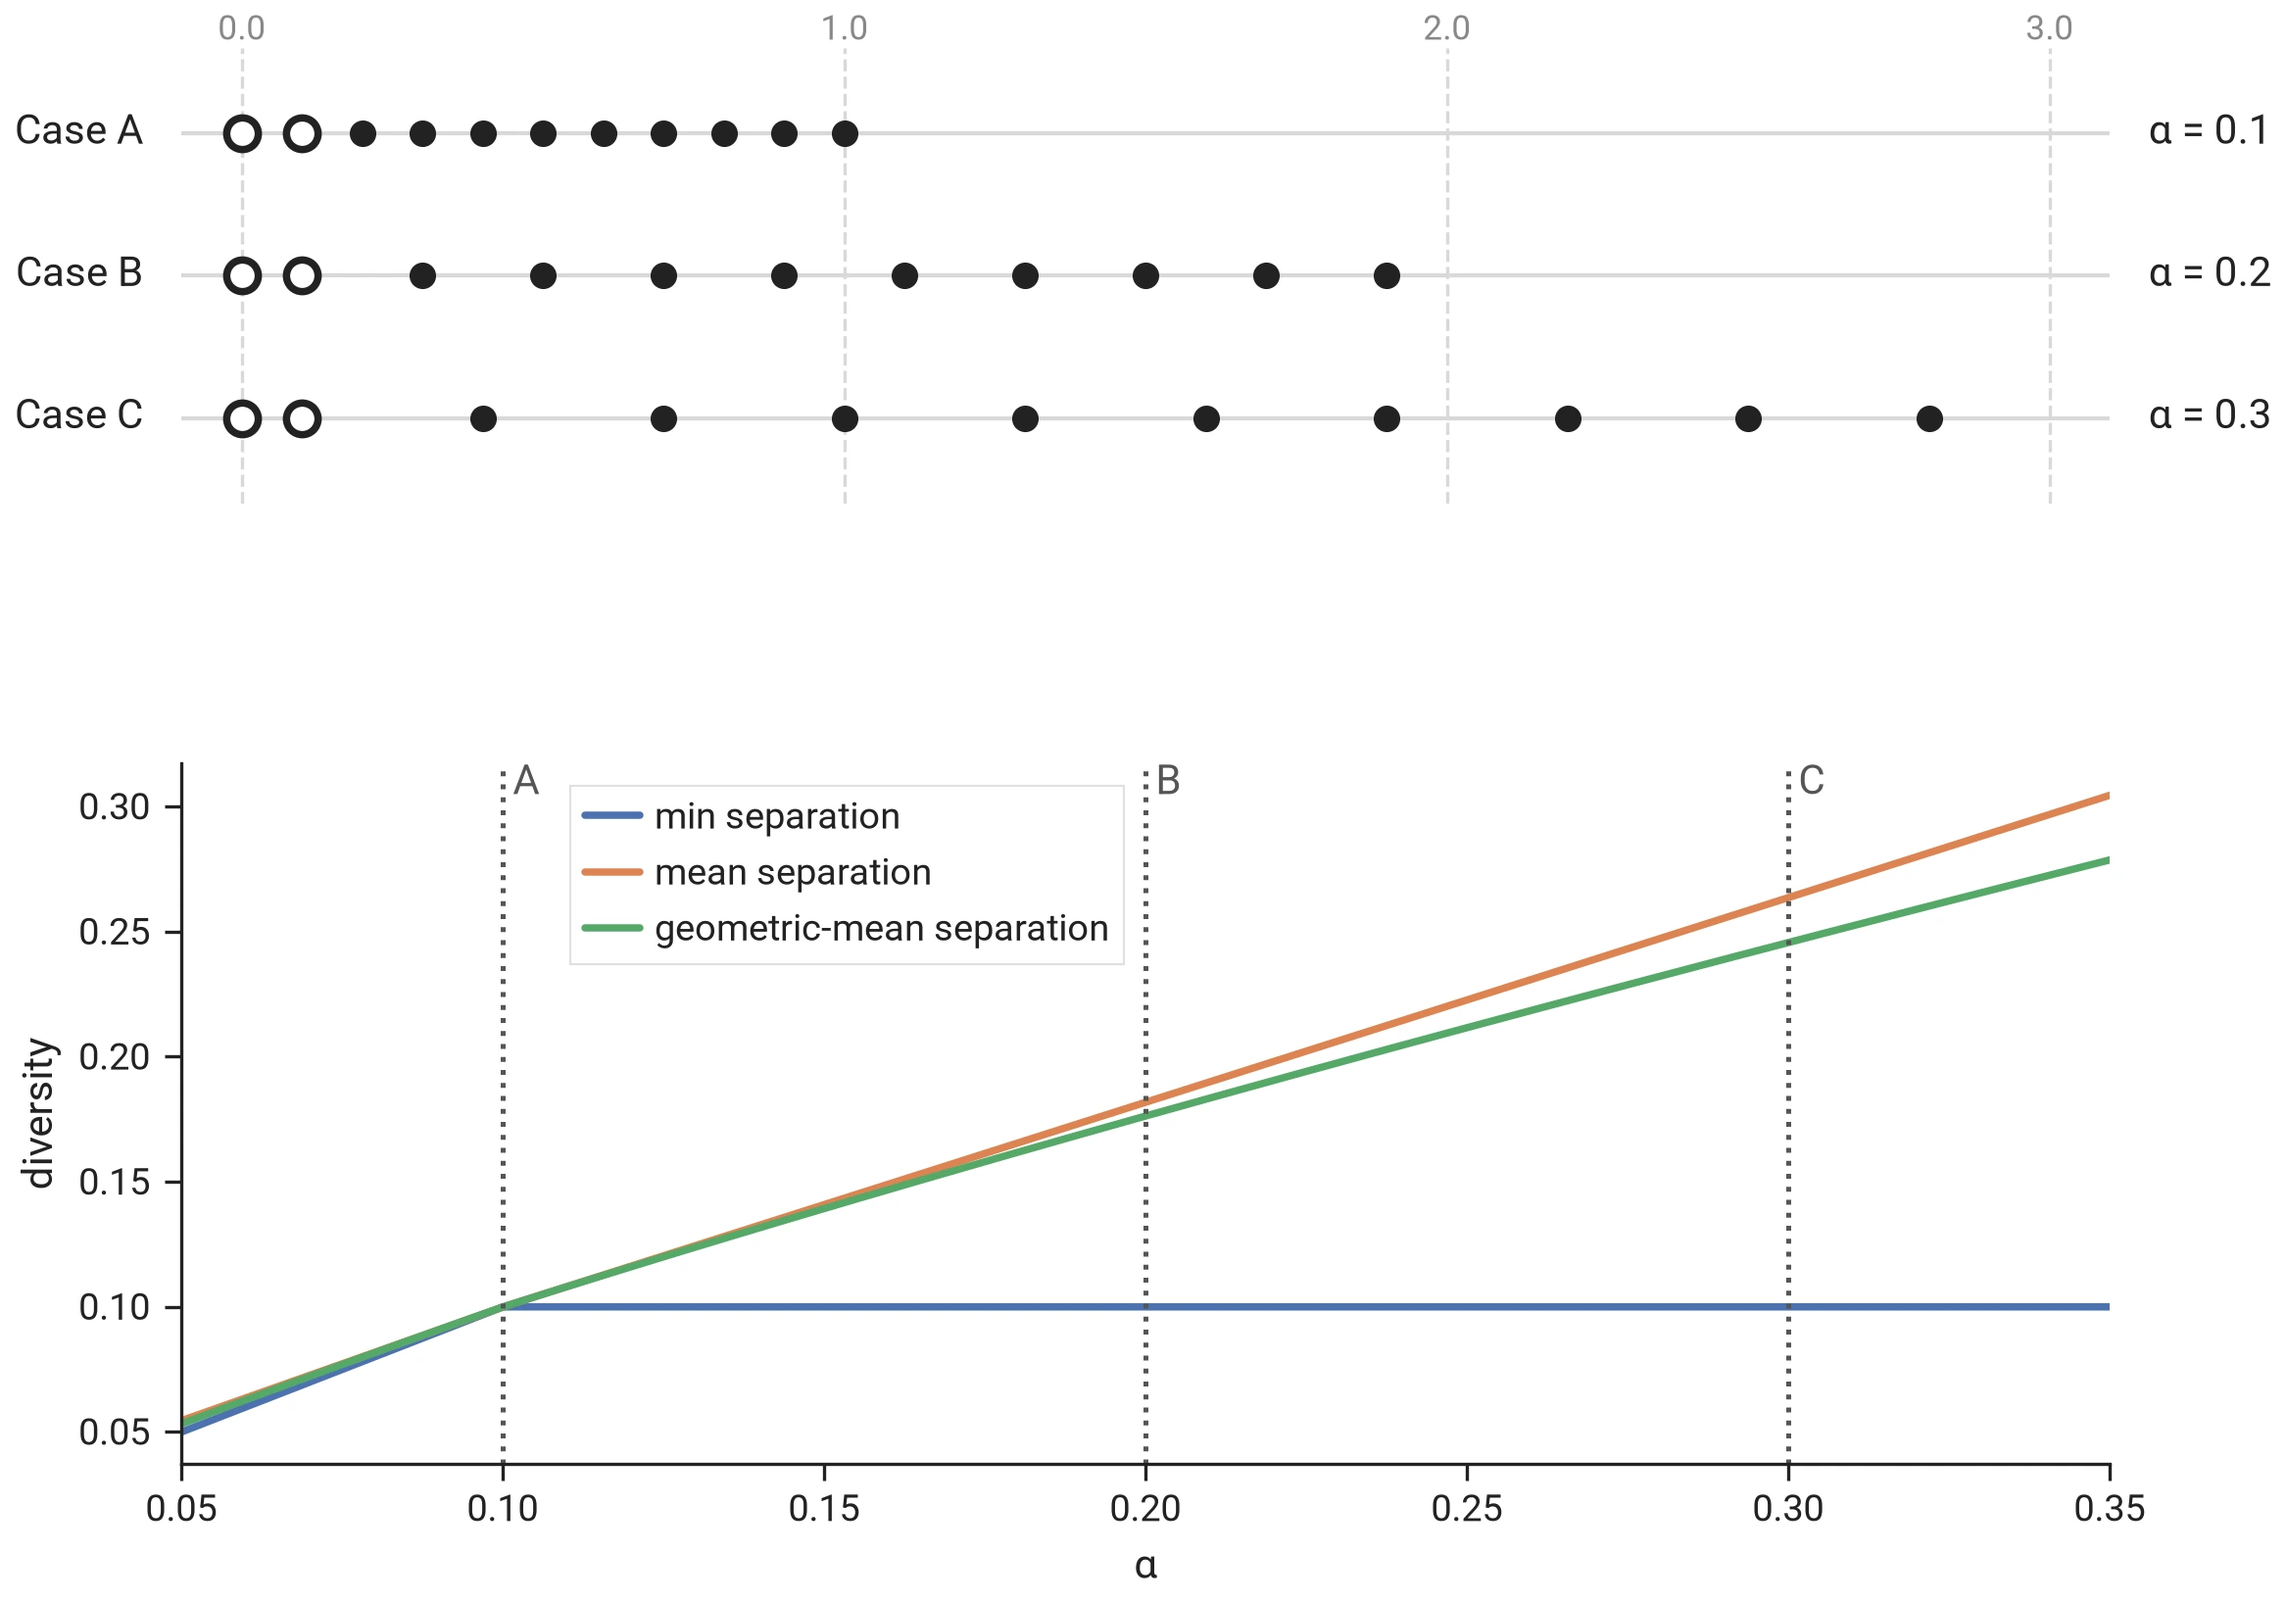
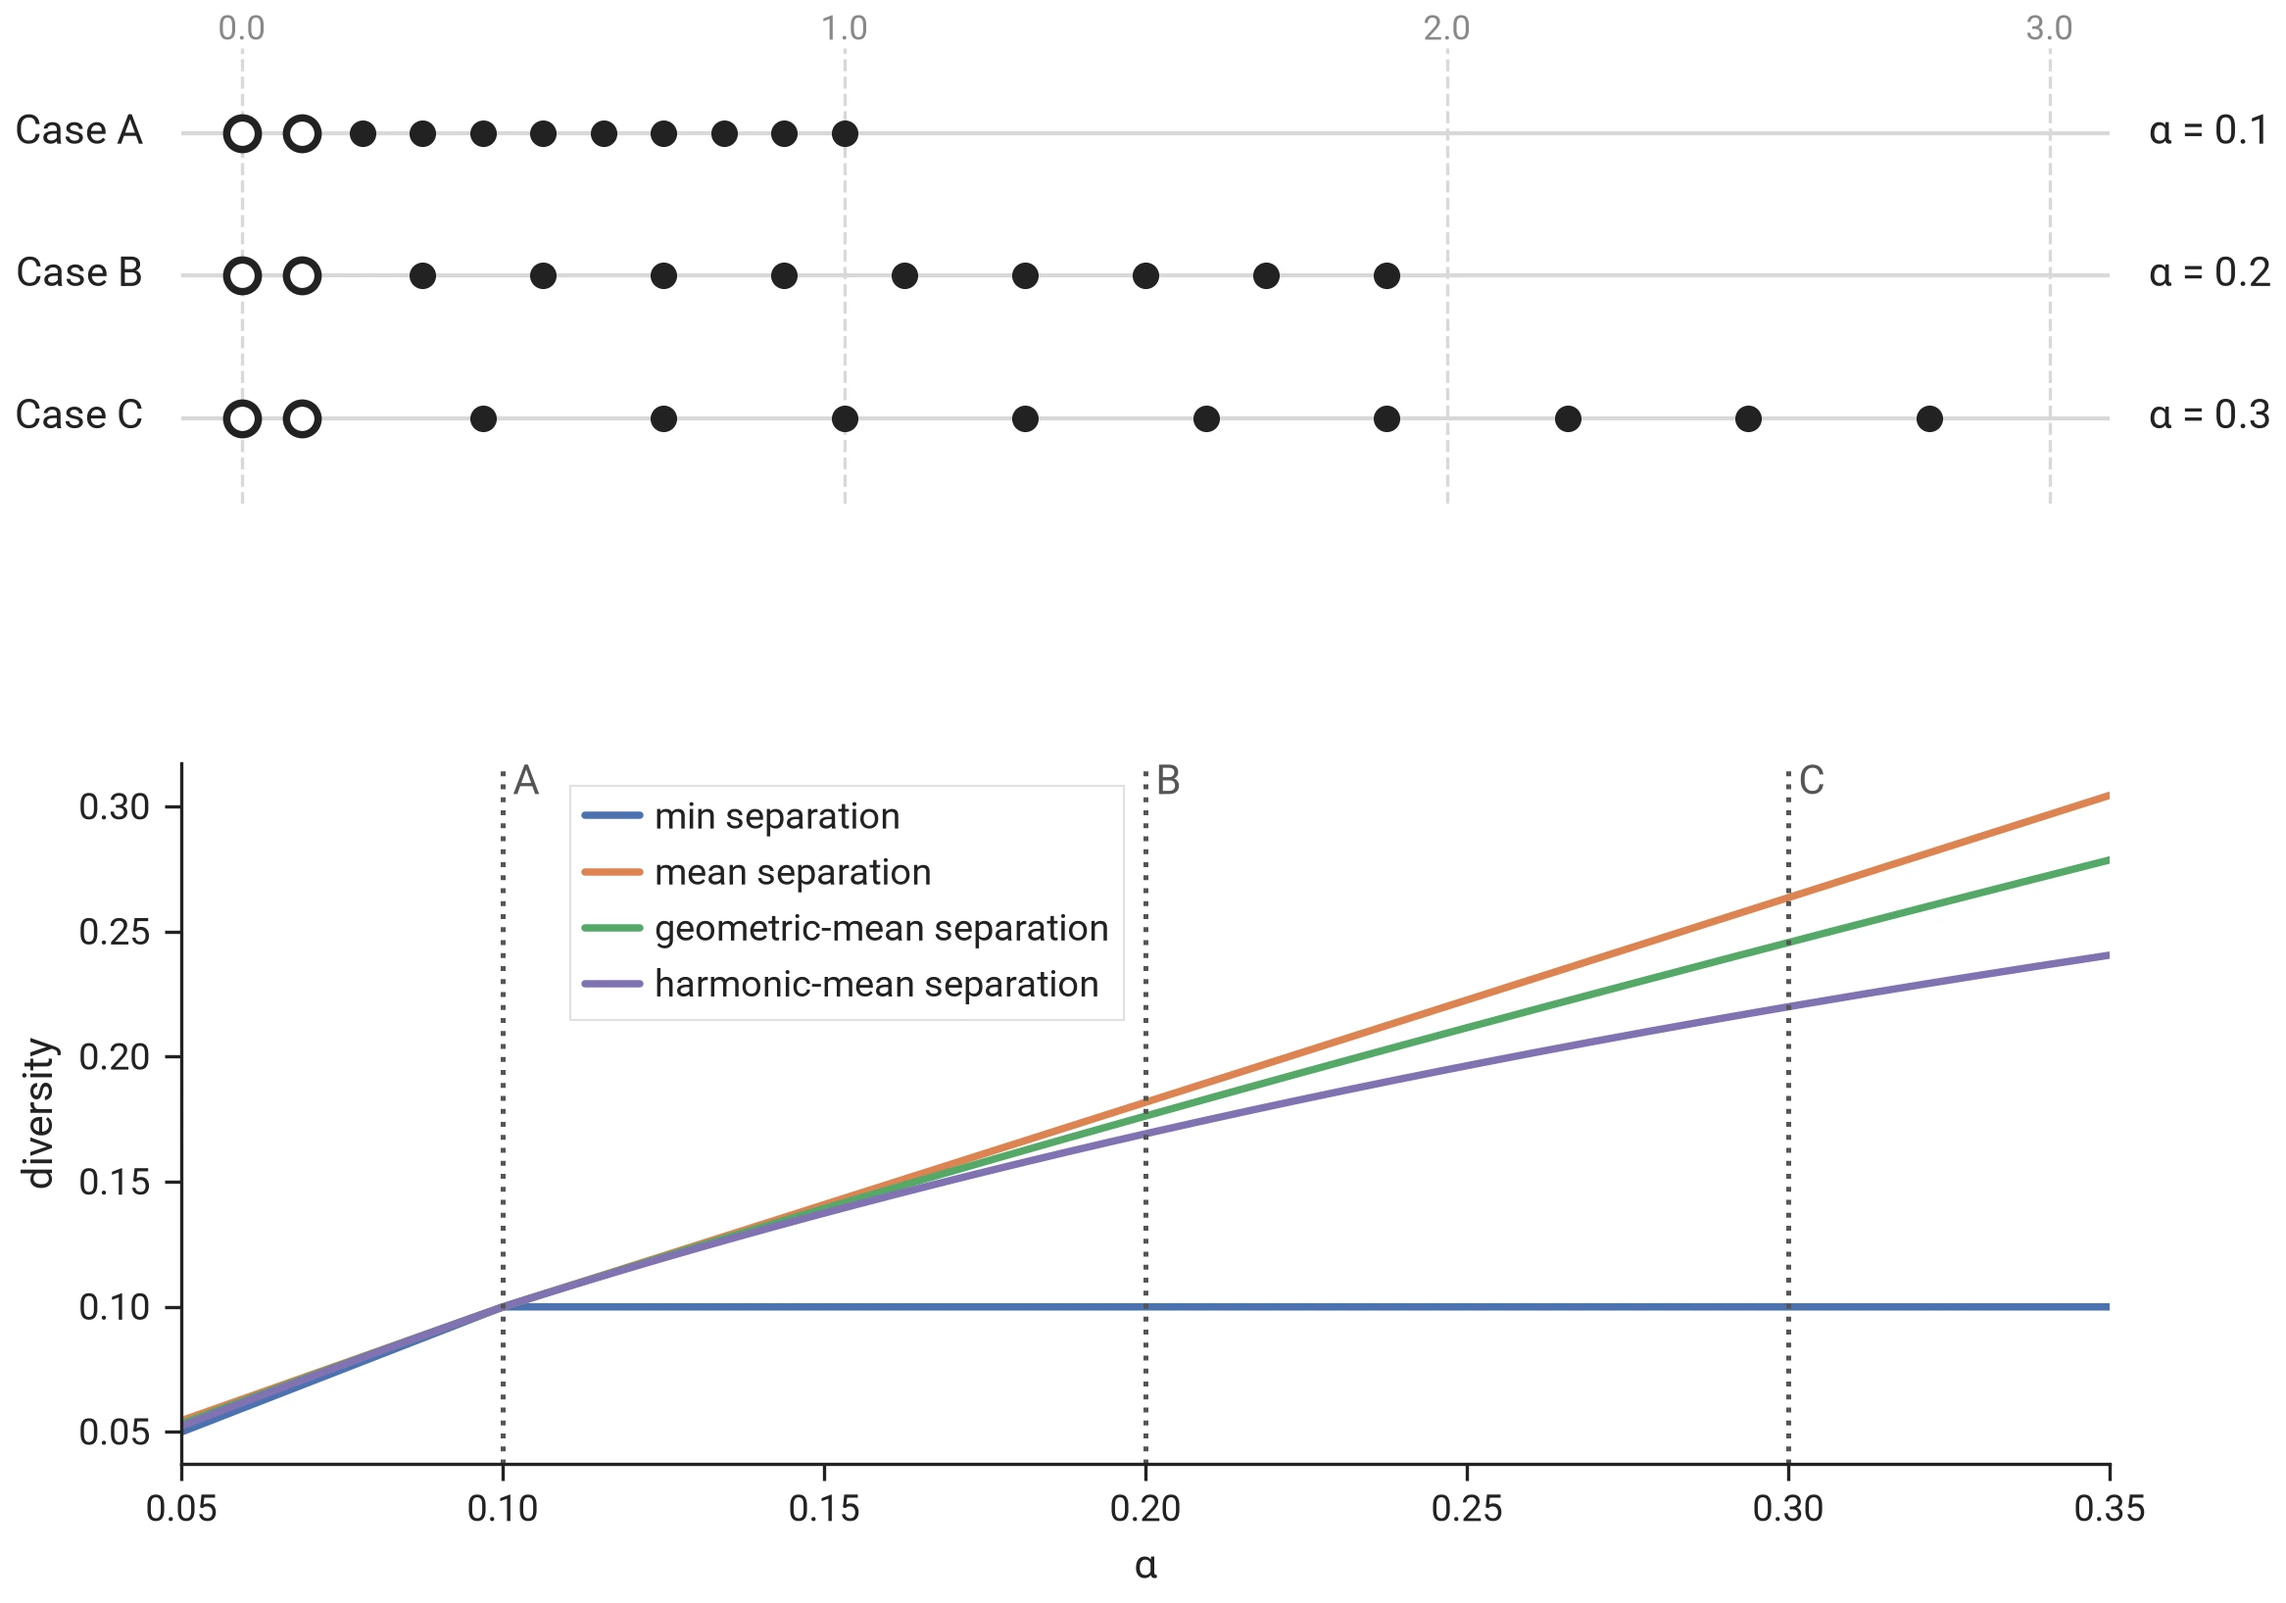
docs: add the harmonic-mean separation curve to the geomean-separation guide
The four figures gain the fourth metric and the comparison table its column.

diff --git a/scripts/generate_guide_images.py b/scripts/generate_guide_images.py
@@ -1,7 +1,7 @@
 """Generate the figures of the guide pages under `docs/guides/`.
 
 The figures of `geomean_separation.md` plot given selections controlled by a parameter alpha: three
-cases as dot rows, and the three separation metrics against alpha below them; no solver is involved.
+cases as dot rows, and the separation metrics against alpha below them; no solver is involved.
 
 The figures of `geomean_distance.md` plot the metric's level curves and one solved selection; only
 that one runs the solver. That selection is emitted as an interactive figure (an HTML fragment over a
@@ -31,7 +31,12 @@ IMAGES_DIR = REPO_ROOT / "docs" / "guides" / "images"
 SOLUTION_PATH = GENERATED_DIR / "geomean_distance_example_solution.json"
 
 # One color per metric, shared by every figure so the reader learns them once.
-METRIC_COLORS = {"min separation": "#4C72B0", "mean separation": "#DD8452", "geometric-mean separation": "#55A868"}
+METRIC_COLORS = {
+    "min separation": "#4C72B0",
+    "mean separation": "#DD8452",
+    "geometric-mean separation": "#55A868",
+    "harmonic-mean separation": "#8172B3",
+}
 CASE_LABELS = ("A", "B", "C")
 
 
@@ -47,12 +52,13 @@ def separations(positions: NDArray[np.float64]) -> NDArray[np.float64]:
 
 
 def metrics(positions: NDArray[np.float64]) -> dict[str, float]:
-    """Return the three separation-based diversity metrics of a one-dimensional selection."""
+    """Return the separation-based diversity metrics of a one-dimensional selection."""
     sep = separations(np.sort(positions))
     return {
         "min separation": float(sep.min()),
         "mean separation": float(sep.mean()),
         "geometric-mean separation": float(np.exp(np.mean(np.log(sep)))) if np.all(sep > 0) else 0.0,
+        "harmonic-mean separation": float(sep.size / np.sum(1.0 / sep)) if np.all(sep > 0) else 0.0,
     }
 
 

diff --git a/docs/guides/geomean_separation.md b/docs/guides/geomean_separation.md
@@ -5,11 +5,11 @@
 
 ## I. Pros & cons of different diversity metrics
 
-| | min separation | mean separation | geometric-mean separation |
-|---|:---:|:---:|:---:|
-| Accounts for diversity beyond the closest item pair (I.1) | ❌ | ✅ | ✅ |
-| Strongly penalizes near-duplicate items (I.2) | ✅ | ❌ | ✅ |
-| Steers towards uniform spacing, at any k (I.3) | ✅ | ❌ | ✅ |
+| | min separation | mean separation | geometric-mean separation | harmonic-mean separation |
+|---|:---:|:---:|:---:|:---:|
+| Accounts for diversity beyond the closest item pair (I.1) | ❌ | ✅ | ✅ | ✅ |
+| Strongly penalizes near-duplicate items (I.2) | ✅ | ❌ | ✅ | ✅ |
+| Steers towards uniform spacing, at any k (I.3) | ✅ | ❌ | ✅ | ✅ |
 
 ### I.1. Minimum separation only measures the closest item pair
 
@@ -19,7 +19,7 @@ $$x_1 = 0, \qquad x_2 = 0.1, \qquad x_i = 0.1 + (i - 2)\,\alpha \quad \text{for 
 
 so the first two items are always $0.1$ apart and every further item follows the previous one at distance $\alpha$. At $\alpha = 0.1$ the selection is uniformly spaced; a larger $\alpha$ spreads the last nine items out while the closest pair stays where it is.
 
-![Eleven items on a line: the first two 0.1 apart, every further item α after the previous; the three metrics against α](./images/geomean_separation_I1.webp)
+![Eleven items on a line: the first two 0.1 apart, every further item α after the previous; the four metrics against α](./images/geomean_separation_I1.webp)
 
 > The minimum separation diversity metric fails to take into account diversity beyond the closest selected item pair.
 
@@ -31,7 +31,7 @@ $$x_2 = \alpha, \qquad x_i = \frac{i - 1}{10} \quad \text{for } i \neq 2.$$
 
 At $\alpha = 0.1$ the selection is uniform; as $\alpha$ approaches $0$ the second item becomes a near-duplicate of the first.
 
-![Eleven items uniform over [0, 1] except the second at α; the three metrics against α](./images/geomean_separation_I2.webp)
+![Eleven items uniform over [0, 1] except the second at α; the four metrics against α](./images/geomean_separation_I2.webp)
 
 > The mean separation diversity only weakly penalizes near- or exactly duplicate items.
 
@@ -43,7 +43,7 @@ $$x_i = \left(\frac{i}{50}\right)^{\frac{2 - \alpha}{\alpha}} \quad \text{for } 
 
 At $\alpha = 1$ the selection is uniform; below it the items crowd towards $0$, above it towards $1$.
 
-![Fifty-one items at (i/50)^((2−α)/α); the three metrics against α](./images/geomean_separation_I3.webp)
+![Fifty-one items at (i/50)^((2−α)/α); the four metrics against α](./images/geomean_separation_I3.webp)
 
 > Mean separation is mostly influenced by the total span of items (here: 1.0), much less so by the smaller distances (only the smallest distance between items counts twice instead of once towards the average), especially for larger k.
 
@@ -60,6 +60,6 @@ x_i &= (1 - \alpha)\,t_i + \alpha\,t_i^2 \quad \text{with } t_i = \frac{i - 25}{
 
 At $\alpha = 0$ the free items are uniformly spaced; a positive $\alpha$ crowds them towards the constrained group, a negative one away from it.
 
-![Fifty-one items: 26 forced between −0.25 and 0, 25 free between 0 and 1; the three metrics against α](./images/geomean_separation_II.webp)
+![Fifty-one items: 26 forced between −0.25 and 0, 25 free between 0 and 1; the four metrics against α](./images/geomean_separation_II.webp)
 
 > In constrained problems, where constraints can create regions with different item densities, geometric-mean separation still provides an incentive to drive the solution to uniform distributions within each region, leading to natural looking solutions that align well with expectations.
